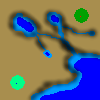
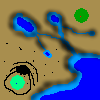
Map loader can now place rocks. VisibilityGenerator now accepts visibility tasks instead of raw parameters, the tasks specify the algorithm for finding the visibility map.

diff --git a/SanguineGenesis/GameLogic/VisibilityGenerator.cs b/SanguineGenesis/GameLogic/VisibilityGenerator.cs
@@ -18,11 +18,7 @@ namespace SanguineGenesis.GameLogic
         /// <summary>
         /// newTask has to be false to set this.
         /// </summary>
-        private List<View> views;
-        /// <summary>
-        /// newTask has to be false to set this.
-        /// </summary>
-        private ObstacleMap obstMap;
+        private IVisibilityGeneratingTask task;
         /// <summary>
         /// Set to true after new task was given. Set to false after completing the task. New task
         /// can't be given if newTask is true. To access, this instance has to be locked.
@@ -44,7 +40,7 @@ namespace SanguineGenesis.GameLogic
         }
         private VisibilityMap visibilityMap;
         /// <summary>
-        /// Done has to be true to get this.
+        /// Done has to be true to get calculated visiblity map. Returns null otherwise.
         /// </summary>
         public VisibilityMap VisibilityMap
         {
@@ -81,13 +77,14 @@ namespace SanguineGenesis.GameLogic
         /// Set parameters for creating the visibility map. Does nothing if the current
         /// task is not done yet.
         /// </summary>
-        public void SetNewTask(ObstacleMap obstMap, List<View> unitViews)
+        public void SetNewTask(/*ObstacleMap obstMap, List<View> unitViews*/IVisibilityGeneratingTask task)
         {
             lock(this)
                 if (newTask) return;
 
-            this.obstMap = obstMap;
-            this.views = unitViews;
+            //this.obstMap = obstMap;
+            //this.views = unitViews;
+            this.task = task;
             lock (this)
             {
                 newTask = true;
@@ -105,8 +102,7 @@ namespace SanguineGenesis.GameLogic
             {
                 lock(this)
                     while (!newTask) Monitor.Wait(this);
-                visibilityMap = new VisibilityMap(obstMap.Width, obstMap.Height);
-                visibilityMap.FindVisibility(views, obstMap);
+                visibilityMap = task.GenerateVisibilityMap();
 
                 lock (this)
                 {
@@ -114,6 +110,122 @@ namespace SanguineGenesis.GameLogic
                     Done = true;
                 }
             }
+        }
+    }
+
+    /// <summary>
+    /// Represents task that can be computed by VisibilityGenerator.
+    /// </summary>
+    interface IVisibilityGeneratingTask
+    {
+        VisibilityMap GenerateVisibilityMap();
+    }
+
+    class RayVisibilityGeneratingTask : IVisibilityGeneratingTask
+    {
+        private VisibilityMap VisibilityMap { get; }
+        private List<View> Views { get; }
+        private ObstacleMap VisionObstacleMap { get; }
+
+        public RayVisibilityGeneratingTask(ObstacleMap obstMap, List<View> views)
+        {
+            this.VisibilityMap = new VisibilityMap(obstMap.Width, obstMap.Height);
+            Views = views;
+            VisionObstacleMap = obstMap;
+        }
+
+        /// <summary>
+        /// Sets true to all squares visible by the entities.
+        /// </summary>
+        public VisibilityMap GenerateVisibilityMap()
+        {
+            foreach (View v in Views)
+            {
+                AddVisibility(v);
+            }
+            return VisibilityMap;
+        }
+
+        /// <summary>
+        /// Set true to all squares visible by the entity.
+        /// </summary>
+        public void AddVisibility(View v)
+        {
+            float viewRange = v.Range;
+            int left = (int)(v.Position.X - viewRange);
+            int right = (int)(v.Position.X + viewRange) + 1;
+            int bottom = (int)(v.Position.Y - viewRange);
+            int top = (int)(v.Position.Y + viewRange) + 1;
+            //cast rays to the lines on bottom and top of the square around v
+            for (int i = left; i <= right; i++)
+            {
+                Ray rTop = new Ray(new Vector2(v.Position.X, v.Position.Y),
+                    new Vector2(i, top),
+                    viewRange,
+                    VisionObstacleMap);
+                int x; int y;
+                while (rTop.Next(out x, out y))
+                    VisibilityMap[x, y] = true;
+                if (x != -1 && y != -1)
+                    VisibilityMap[x, y] = true;
+                Ray rBottom = new Ray(new Vector2(v.Position.X, v.Position.Y),
+                    new Vector2(i, bottom),
+                    viewRange,
+                    VisionObstacleMap);
+                while (rBottom.Next(out x, out y))
+                    VisibilityMap[x, y] = true;
+                if (x != -1 && y != -1)
+                    VisibilityMap[x, y] = true;
+            }
+            //cast rays to the lines on left and right of the square around v
+            for (int j = bottom; j <= top; j++)
+            {
+                Ray rLeft = new Ray(new Vector2(v.Position.X, v.Position.Y),
+                    new Vector2(left, j),
+                    viewRange,
+                    VisionObstacleMap);
+                int x; int y;
+                while (rLeft.Next(out x, out y))
+                    VisibilityMap[x, y] = true;
+                if (x != -1 && y != -1)
+                    VisibilityMap[x, y] = true;
+                Ray rRight = new Ray(new Vector2(v.Position.X, v.Position.Y),
+                    new Vector2(right, j),
+                    viewRange,
+                    VisionObstacleMap);
+                while (rRight.Next(out x, out y))
+                    VisibilityMap[x, y] = true;
+                if (x != -1 && y != -1)
+                    VisibilityMap[x, y] = true;
+            }
+            //add the square which contains v
+            int vX = (int)v.Position.X;
+            int vY = (int)v.Position.Y;
+            if (vX >= 0 && vX < VisibilityMap.Width && vY >= 0 && vY < VisibilityMap.Height)
+                VisibilityMap[vX, vY] = true;
+        }
+    }
+
+    /// <summary>
+    /// The whole map is visible
+    /// </summary>
+    class UnlimitedVisibilityGeneratingTask : IVisibilityGeneratingTask
+    {
+        private VisibilityMap VisibilityMap { get; }
+
+        public UnlimitedVisibilityGeneratingTask(int width, int height)
+        {
+            this.VisibilityMap = new VisibilityMap(width, height);
+        }
+
+        public VisibilityMap GenerateVisibilityMap()
+        {
+            for (int i = 0; i < VisibilityMap.Width; i++)
+                for (int j = 0; j < VisibilityMap.Height; j++)
+                    VisibilityMap[i, j] = true;
+            //sleep so that the updates aren't to frequent
+            Thread.Sleep(10);
+            return VisibilityMap;
         }
     }
 }

diff --git a/SanguineGenesis/GameLogic/Faction.cs b/SanguineGenesis/GameLogic/Faction.cs
@@ -75,6 +75,27 @@ namespace SanguineGenesis
             MaxAirTaken = Math.Min(MAX_AIR_TAKEN, GetAll<Tree>().Sum((t) => t.Air));
             AirTaken = GetAll<Animal>().Sum((a) => a.Air);
         }
+
+        /// <summary>
+        /// Removes dead entities and references to them from their commands. The references
+        /// from other commands stay - other commands need to check for dead entities.
+        /// </summary>
+        public void RemoveDeadEntities(Game game)
+        {
+            //remove player's dead entities
+            List<Entity> deadEntities = new List<Entity>();
+            foreach (Entity e in Entities)
+            {
+                if (e.IsDead)
+                {
+                    deadEntities.Add(e);
+                }
+            }
+            foreach (Entity e in deadEntities)
+                e.Die(game);
+
+            Entities.RemoveAll((entity) => entity.IsDead);
+        }
     }
 
     class Player:Faction
@@ -215,30 +236,6 @@ namespace SanguineGenesis
         }
 
         /// <summary>
-        /// Removes dead entities and references to them from their commands. The references
-        /// from other commands stay - other commands need to check for dead entities.
-        /// </summary>
-        public void RemoveDeadEntities(Game game)
-        {
-            //remove player's dead entities
-            List<Entity> deadEntities = new List<Entity>();
-            foreach(Entity e in Entities)
-            {
-                if(e.IsDead)
-                {
-                    deadEntities.Add(e);
-                }
-            }
-            foreach(Entity e in deadEntities)
-                e.Die(game);
-
-            Entities.RemoveAll((entity) => entity.IsDead);
-            
-            //remove dead visible buildings
-            RemoveDeadVisibleBuildings();
-        }
-
-        /// <summary>
         /// Removes all visible buildings that are dead.
         /// </summary>
         public void RemoveDeadVisibleBuildings()
@@ -255,7 +252,6 @@ namespace SanguineGenesis
         /// </summary>
         public void InitializeMapView(Map map)
         {
-            //todo: implement with visibility map
             VisibleMap = new Map(map);
         }
     }

diff --git a/SanguineGenesis/GameLogic/Game.cs b/SanguineGenesis/GameLogic/Game.cs
@@ -182,20 +182,12 @@ namespace SanguineGenesis
             //remove dead units
             foreach(var kvp in Players)
                 kvp.Value.RemoveDeadEntities(this);
+            NeutralFaction.RemoveDeadEntities(this);
+            foreach (var kvp in Players)
+                kvp.Value.RemoveDeadVisibleBuildings();
 
             //update players' visibility map
-            if (!GameplayOptions.WholeMapVisible)
-            {
-                VisibilityGeneratorInteraction(buildings);
-            }
-            else
-            {
-                foreach(var kvp in Players)
-                {
-                    VisibilityMap everythingVisible = VisibilityMap.GetEverythingVisible(Map.Width, Map.Height);
-                    kvp.Value.SetVisibilityMap(everythingVisible, buildings);
-                }
-            }
+            VisibilityGeneratorInteraction(buildings);
 
             //set and refresh movement commands
             MovementGeneratorInteraction();
@@ -228,8 +220,15 @@ namespace SanguineGenesis
                 //generated visibility map for the other player
                 nextVisibilityPlayer = other;
 
-                visibilityGenerator.SetNewTask(Map.GetViewObstaclesMap(nextVisibilityPlayer),
+                //create algorithm for generating visibility map
+                IVisibilityGeneratingTask visGenTask;
+                if (GameplayOptions.WholeMapVisible)
+                    visGenTask = new UnlimitedVisibilityGeneratingTask(Map.Width, Map.Height);
+                else
+                    visGenTask = new RayVisibilityGeneratingTask(Map.GetViewObstaclesMap(nextVisibilityPlayer),
                     Players[nextVisibilityPlayer].Entities.Select((entity) => entity.View).ToList());
+
+                visibilityGenerator.SetNewTask(visGenTask);
             }
         }
 

diff --git a/SanguineGenesis/GameLogic/Maps/MapLoader.cs b/SanguineGenesis/GameLogic/Maps/MapLoader.cs
@@ -112,6 +112,7 @@ namespace SanguineGenesis.GameLogic.Maps
         {
             Color blue = Color.Blue;
             Color red = Color.Red;
+            Color black = Color.Black;
             if (c.R == blue.R && c.G==blue.G && c.B==blue.B)
             {
                 GameStaticData gsd = game.Players[FactionType.PLAYER0].GameStaticData;
@@ -125,6 +126,13 @@ namespace SanguineGenesis.GameLogic.Maps
                 //create a new builder that will be used to build the building
                 Entity builder = gsd.AnimalFactories.Factorys["TIGER"].NewInstance(game.Players[FactionType.PLAYER1], n.Center);
                 gsd.Abilities.BuildBuilding("KAPOC").NewCommand(builder, n).PerformCommand(game, 0);
+            }
+            else if (c.R == black.R && c.G == black.G && c.B == black.B)
+            {
+                GameStaticData gsd = game.NeutralFaction.GameStaticData;
+                //create a new builder that will be used to build the building
+                Entity builder = gsd.AnimalFactories.Factorys["TIGER"].NewInstance(game.NeutralFaction, n.Center);
+                gsd.Abilities.BuildBuilding("ROCK").NewCommand(builder, n).PerformCommand(game, 0);
             }
         }
     }

diff --git a/SanguineGenesis/GameLogic/Data/Abilities/BuildBuilding.cs b/SanguineGenesis/GameLogic/Data/Abilities/BuildBuilding.cs
@@ -104,7 +104,7 @@ namespace SanguineGenesis.GameLogic.Data.Abilities
                     newBuilding = stF.NewInstance(newUnitOwner, buildNodes);
                 }
                 //put the new building on the main map
-                game.Players[newUnitOwner.FactionID].Entities.Add(newBuilding);
+                newUnitOwner.Entities.Add(newBuilding);
                 map.AddBuilding(newBuilding);
                 game.Map.MapWasChanged = true;
             }

diff --git a/SanguineGenesis/GameLogic/Maps/VisibilityMap.cs b/SanguineGenesis/GameLogic/Maps/VisibilityMap.cs
@@ -32,7 +32,11 @@ namespace SanguineGenesis.GameLogic.Maps
         /// </summary>
         private bool[,] visible;
 
-        public bool this[int i, int j] => visible[i, j];
+        public bool this[int i, int j]
+        {
+            get => visible [i, j];
+            set => visible[i, j] = value;
+        }
 
         /// <summary>
         /// Width of the map in squares.
